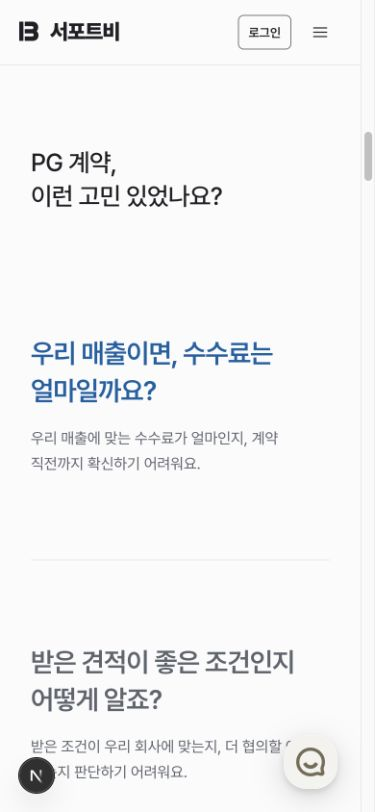
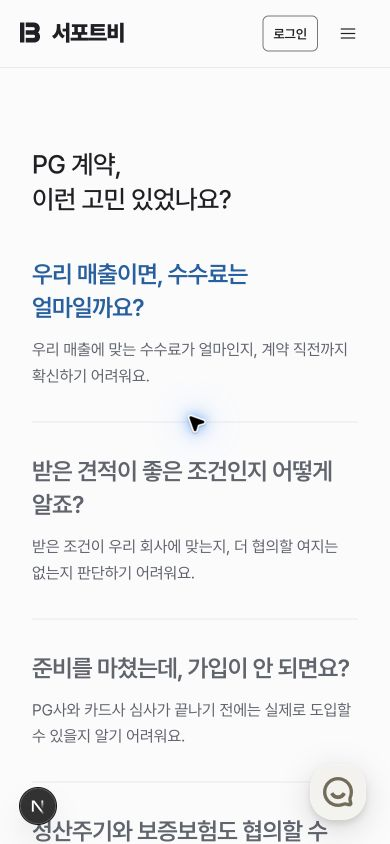
feat: 모바일 문제 질문 가독성과 스크롤 강조 개선

diff --git a/components/landing/scroll-pinned/ScrollDrivenProblem.tsx b/components/landing/scroll-pinned/ScrollDrivenProblem.tsx
@@ -6,7 +6,10 @@ import { ScrollPinnedSection } from '@/components/landing/ScrollPinnedSection';
 import { ProblemCard } from '@/components/landing/ProblemCard';
 import { FadeInView } from '@/components/landing/FadeInView';
 import { EASE_OUT } from '@/lib/landing/ease';
+import { createMinWidthHook } from '@/lib/hooks/useMinWidth';
 import styles from './problem-story.module.css';
+
+const useDesktop = createMinWidthHook(768);
 
 type Item = { num: string; title: string; desc: string };
 
@@ -62,11 +65,27 @@ export function ScrollDrivenProblem({
 
 // 질문 전체를 문서 흐름에 두어 모바일·키보드에서도 숨김 없이 읽을 수 있다.
 function ProblemQuestions({ heading, intro, items }: { heading: ReactNode; intro?: ReactNode; items: Item[] }) {
+  const isDesktop = useDesktop();
   const listRef = useRef<HTMLDivElement>(null);
   const { scrollYProgress } = useScroll({ target: listRef, offset: ['start center', 'end center'] });
   const [activeStep, setActiveStep] = useState(0);
   useMotionValueEvent(scrollYProgress, 'change', (progress) => {
-    setActiveStep(Math.min(items.length - 1, Math.max(0, Math.floor(progress * items.length))));
+    if (isDesktop) {
+      setActiveStep(Math.min(items.length - 1, Math.max(0, Math.floor(progress * items.length))));
+      return;
+    }
+    // 모바일은 문장 길이에 따라 높이가 달라지므로 실제 질문 중심과의 거리로 판정한다.
+    let closestIndex = 0;
+    let closestDistance = Infinity;
+    Array.from(listRef.current?.children ?? []).forEach((question, index) => {
+      const { top, height } = question.getBoundingClientRect();
+      const distance = Math.abs(top + height / 2 - window.innerHeight / 2);
+      if (distance < closestDistance) {
+        closestIndex = index;
+        closestDistance = distance;
+      }
+    });
+    setActiveStep(closestIndex);
   });
 
   return (
@@ -79,13 +98,13 @@ function ProblemQuestions({ heading, intro, items }: { heading: ReactNode; intro
         {items.map((item, i) => (
           <article key={item.num} className={styles.question} data-active={i === activeStep}>
             <h3>
-              <button
+              {isDesktop ? <button
                 type="button"
                 aria-current={i === activeStep ? 'step' : undefined}
                 onClick={(event) => event.currentTarget.closest('article')?.scrollIntoView({ block: 'center', behavior: 'smooth' })}
               >
                 {item.title}
-              </button>
+              </button> : item.title}
             </h3>
             <p>{item.desc}</p>
           </article>

diff --git a/components/landing/__tests__/ScrollDrivenProblem.test.tsx b/components/landing/__tests__/ScrollDrivenProblem.test.tsx
@@ -1,5 +1,5 @@
 import { act, fireEvent, render, screen } from '@testing-library/react';
-import { beforeEach, expect, it, vi } from 'vitest';
+import { afterEach, beforeEach, expect, it, vi } from 'vitest';
 import { motionValue } from 'motion/react';
 import { ScrollDrivenProblem } from '../scroll-pinned/ScrollDrivenProblem';
 
@@ -16,6 +16,7 @@ const items = [
   { num: '04', title: '정산', desc: '주기를 확인해요.' },
 ];
 beforeEach(() => { scroll.progress = motionValue(0); });
+afterEach(() => { vi.unstubAllGlobals(); });
 
 it('질문은 모두 읽을 수 있고 스크롤과 역스크롤에 따라 현재 질문이 바뀐다', () => {
   render(<ScrollDrivenProblem heading={<h2>PG 계약의 어려움</h2>} items={items} {...{ presentation: 'focus' as const }} />);
@@ -48,4 +49,30 @@ it('질문을 선택하면 그 질문을 화면 중앙으로 이동한다', () =
   article.scrollIntoView = scrollIntoView;
   fireEvent.click(question);
   expect(scrollIntoView).toHaveBeenCalledWith({ block: 'center', behavior: 'smooth' });
+});
+
+it('모바일은 질문을 일반 텍스트로 읽으며 터치해도 스크롤하지 않는다', () => {
+  vi.stubGlobal('innerWidth', 390);
+  render(<ScrollDrivenProblem heading={<h2>PG 계약</h2>} items={items} presentation="focus" />);
+  expect(screen.queryByRole('button', { name: '심사' })).not.toBeInTheDocument();
+  const heading = screen.getByRole('heading', { name: '심사' });
+  const scrollIntoView = vi.fn();
+  heading.closest('article')!.scrollIntoView = scrollIntoView;
+  fireEvent.click(heading);
+  expect(scrollIntoView).not.toHaveBeenCalled();
+  expect(screen.getByText('승인을 확인해요.')).toBeVisible();
+});
+
+it('높이가 다른 모바일 질문은 전체 진행률이 아닌 화면 중앙 위치로 강조한다', () => {
+  vi.stubGlobal('innerWidth', 390);
+  vi.stubGlobal('innerHeight', 844);
+  render(<ScrollDrivenProblem heading={<h2>PG 계약</h2>} items={items} presentation="focus" />);
+  const articles = screen.getAllByRole('article');
+  const positions = [{top: -220, height: 220}, {top: 0, height: 220}, {top: 220, height: 400}, {top: 620, height: 250}];
+  articles.forEach((article, index) => {
+    vi.spyOn(article, 'getBoundingClientRect').mockReturnValue(positions[index] as DOMRect);
+  });
+  act(() => { (scroll.progress as ReturnType<typeof motionValue<number>>).set(0.3); });
+  expect(articles[2]).toHaveAttribute('data-active', 'true');
+  expect(articles[1]).toHaveAttribute('data-active', 'false');
 });

diff --git a/components/landing/scroll-pinned/problem-story.module.css b/components/landing/scroll-pinned/problem-story.module.css
@@ -42,10 +42,11 @@
 .question button:focus-visible { outline: 2px solid var(--md-sys-color-primary); outline-offset: 8px; }
 .question p { max-width: 28em; font-size: 18px; line-height: 1.75; color: var(--md-sys-color-on-surface-variant); word-break: keep-all; overflow-wrap: anywhere; }
 @media (max-width: 767px) {
-  .story { grid-template-columns: 1fr; gap: 16px; }
-  .heading { position: static; padding-block: 0 24px; }
+  .story { grid-template-columns: 1fr; gap: 0; }
+  .heading { position: static; padding-block: 0 8px; }
   .heading h2 { font-size: 26px; }
-  .question { min-height: 38svh; gap: 16px; padding-block: 32px; }
-  .question h3 { font-size: 28px; }
+  .question { min-height: 0; gap: 12px; padding-block: 32px; }
+  .question h3 { font-size: 24px; }
+  .question[data-active='true'] h3 { color: var(--md-sys-color-primary); }
   .question p { font-size: 16px; line-height: 1.65; }
 }

diff --git a/SCREEN_DESIGN.md b/SCREEN_DESIGN.md
@@ -314,7 +314,7 @@ Award (B4에 인라인 통합 — 별도 라우트 없음)
 
 | # | 라우트 | 제목 | 핵심 |
 |---|---|---|---|
-| — | `/` (공개) | 구매사 랜딩 | 서비스·요금·계산기·FAQ·도입문의 섹션 탐색과 현재 위치 표시, 견적 시작·데모 진입. 문제 제기 구간은 네 질문과 설명을 세로 문서 흐름으로 모두 표시하고, 화면 중앙의 질문을 스크롤·역스크롤에 맞춰 강조한다. 탭·숫자 없이 질문 자체를 클릭하거나 키보드로 선택하면 해당 질문이 화면 중앙으로 부드럽게 이동한다. 데스크톱은 좌측 제목 고정과 우측 질문 목록의 2열, 모바일은 제목을 포함한 자연스러운 1열 스크롤이다. PG 랜딩의 누적형은 유지한다. |
+| — | `/` (공개) | 구매사 랜딩 | 서비스·요금·계산기·FAQ·도입문의 섹션 탐색과 현재 위치 표시, 견적 시작·데모 진입. 문제 제기 구간은 네 질문과 설명을 세로 문서 흐름으로 모두 표시하고, 화면 중앙의 질문을 스크롤·역스크롤에 맞춰 강조한다. 탭·숫자 없이 데스크톱에서는 질문 자체를 클릭하거나 키보드로 선택하면 해당 질문이 화면 중앙으로 부드럽게 이동한다. 데스크톱은 좌측 제목 고정과 우측 질문 목록의 2열이다. 모바일은 24px 질문과 설명을 콘텐츠 높이 기준의 간격으로 이어서 읽는 1열이며, 질문은 이동 버튼이 아닌 일반 텍스트다. 화면 중앙에 가장 가까운 질문만 브랜드 블루로 강조하고 설명은 항상 표시한다. PG 랜딩의 누적형은 유지한다. |
 | — | `/login` | 로그인 | 이메일 + 비밀번호 |
 | — | `/login/ops` | 운영자 로그인(숨김) | Google OAuth 전용. MASTER_ACCOUNT_EMAILS allowlist default-deny. 킬스위치 off 시 404 |
 | — | `/auth/verify?token=...` | 인증 처리(스플래시) | 토큰 검증 → workspaceType 분기 후 각 profile로 |

diff --git a/docs/screenshots/landing-problem-scroll/README.md b/docs/screenshots/landing-problem-scroll/README.md
@@ -1,8 +1,8 @@
 # 구매사 랜딩 문제 제기 구간
 
-2026-10-23 로컬 개발 서버에서 촬영한 화면이다. 질문 네 개를 세로로 배치하고 화면 중앙의 질문을 강조한다. 질문 자체를 클릭하면 해당 질문으로 부드럽게 이동한다.
+2026-10-23 로컬 개발 서버에서 촬영한 화면이다. 질문 네 개를 세로로 배치하고 화면 중앙의 질문을 강조한다. 데스크톱에서 질문 자체를 클릭하면 해당 질문으로 부드럽게 이동한다. 모바일에서는 24px 질문과 설명을 콘텐츠 높이에 맞춰 표시하며, 터치 이동 없이 중앙 질문만 파란색으로 강조한다.
 
 - [데스크톱](landing-problem-desktop.png): 제목 고정과 세로 질문 목록.
 - [모바일](landing-problem-mobile.png): 390×844 뷰포트의 자연스러운 한 열 스크롤.
 
-브라우저에서 클릭 이동·역스크롤·현재 질문 강조를 확인했다. 하단 Next.js 표시는 개발 환경의 표시다.
+브라우저에서 데스크톱 클릭 이동과 모바일 터치 시 위치 유지·역스크롤·현재 질문 강조를 확인했다. 하단 Next.js 표시는 개발 환경의 표시다.

diff --git a/CHANGELOG.md b/CHANGELOG.md
@@ -6,7 +6,7 @@ All notable changes to this project will be documented in this file.
 
 ### Changed
 
-- 구매사 랜딩의 PG 계약 고민을 네 가지 질문으로 읽을 수 있어요. 스크롤하면 현재 질문을 강조하고, 질문을 누르면 해당 위치로 이동해요. 모바일에서는 탭 없이 자연스럽게 이어서 읽을 수 있어요.
+- 구매사 랜딩의 PG 계약 고민을 네 가지 질문으로 읽을 수 있어요. 스크롤하면 현재 질문을 강조하고, 질문을 누르면 해당 위치로 이동해요. 모바일에서는 질문 크기와 간격을 줄여 자연스럽게 이어서 읽고, 현재 질문을 파란색으로 확인할 수 있어요. 질문을 터치해도 화면이 이동하지 않아요.
 
 ## [0.42.1.0] - 2026-10-23
 
